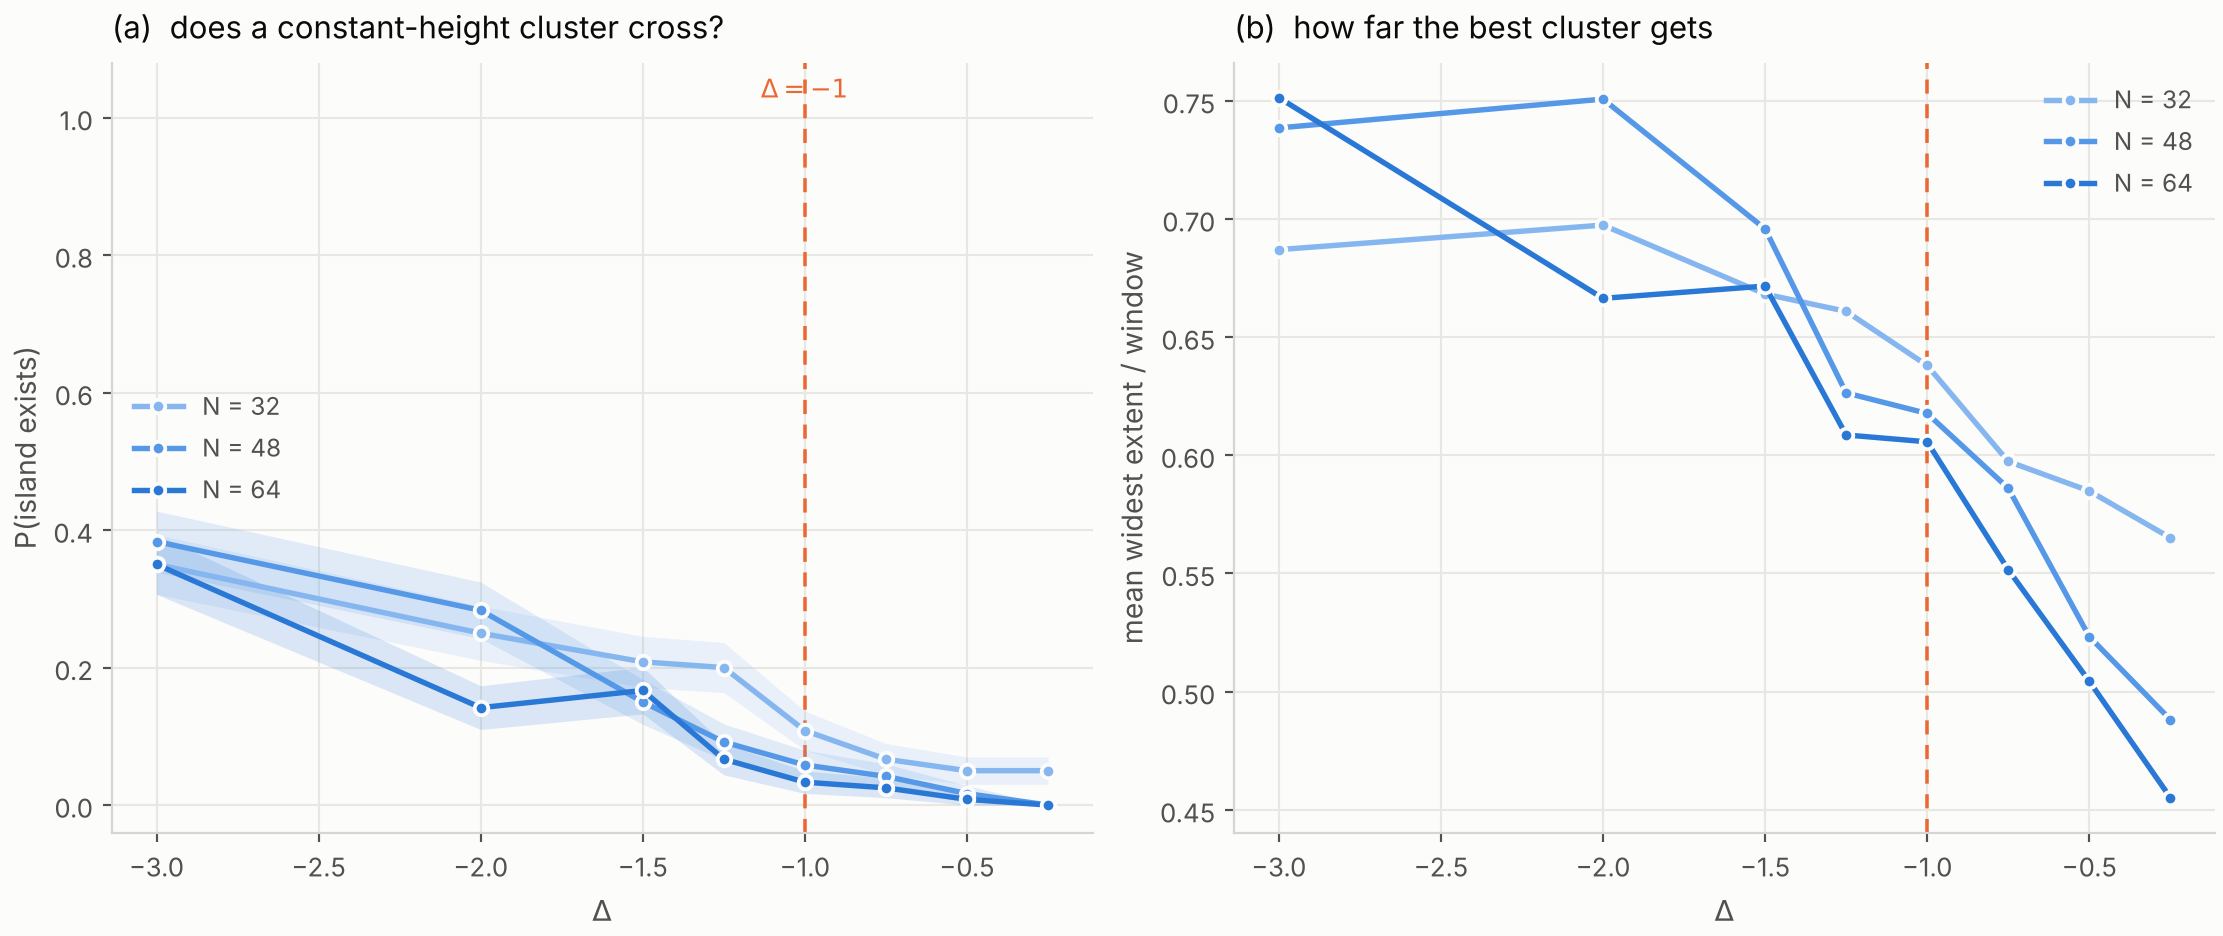
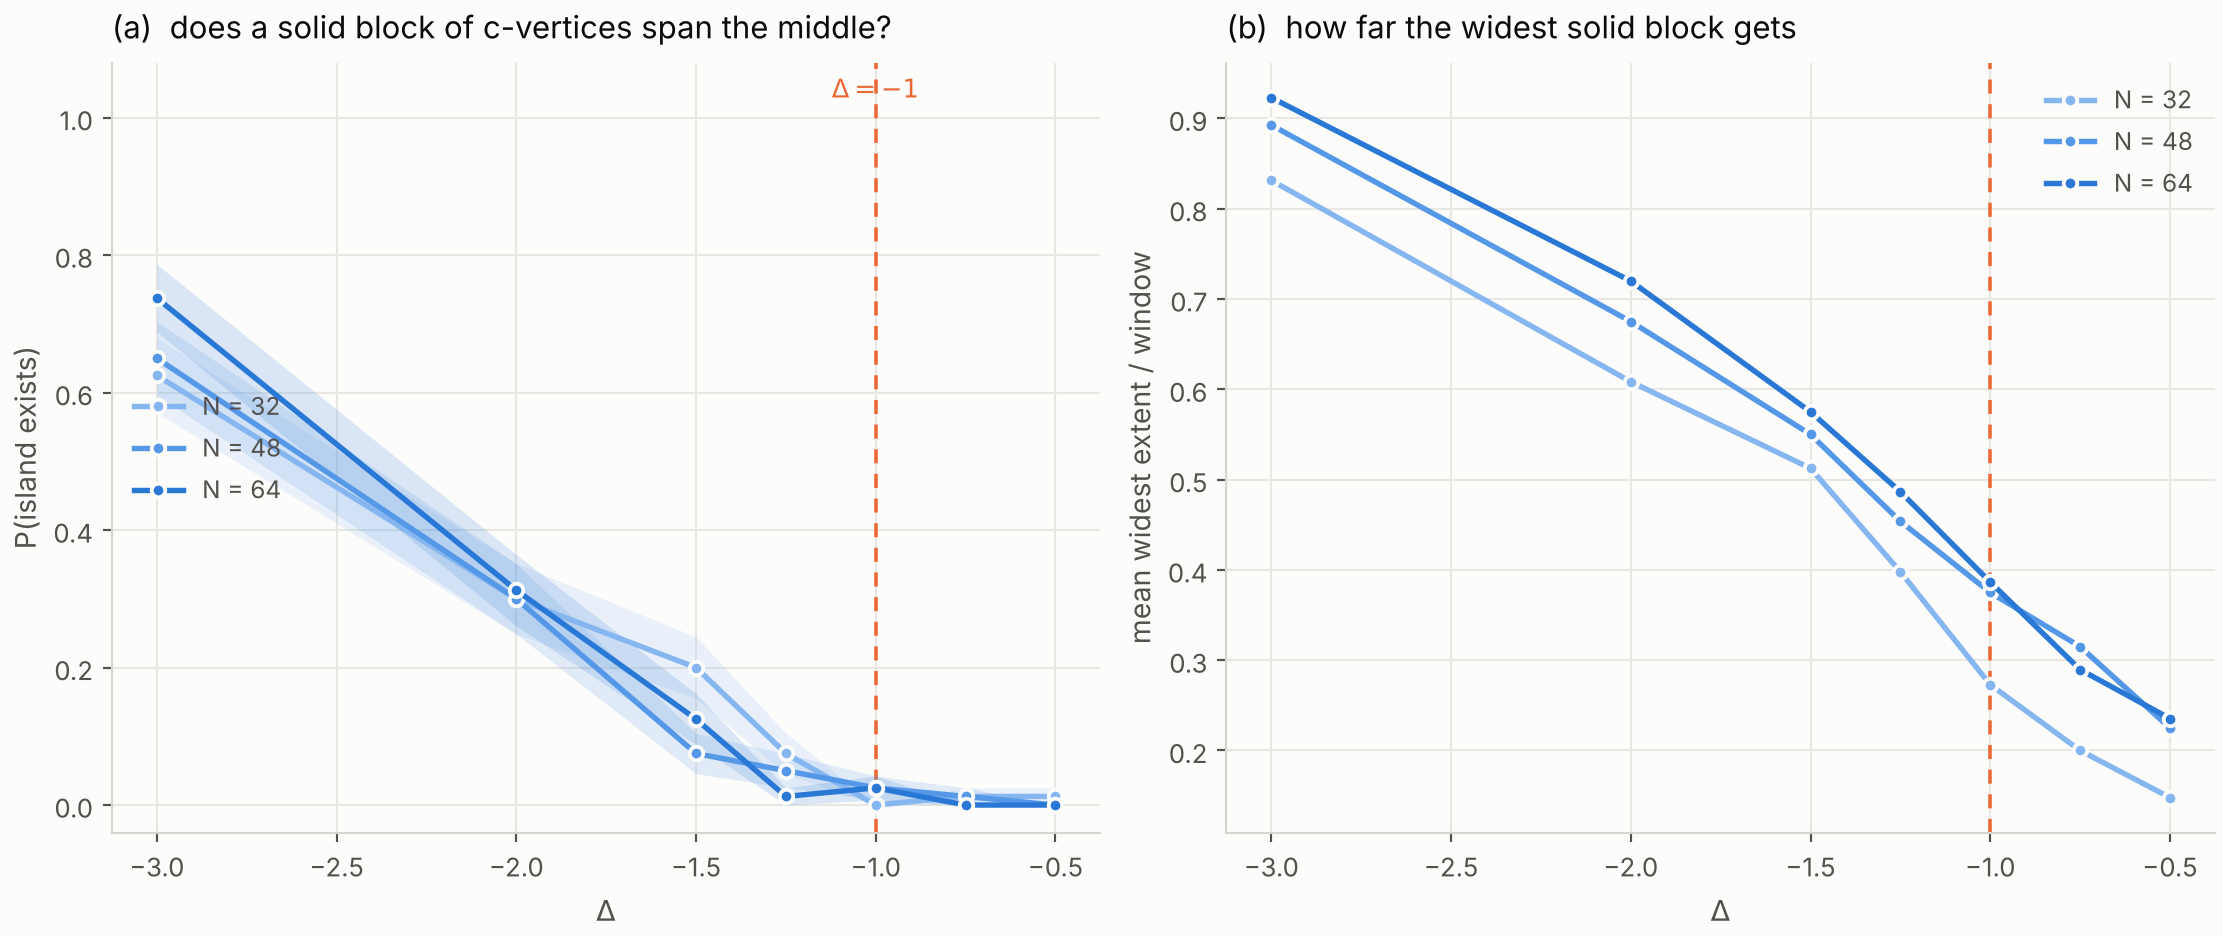
The island predicate: solidity, not flatness, and a window the island can fill
Gorin's N=200, Delta=-3 picture arrived and changes the definition. The island
is a near-SOLID block of c-vertices surrounded by a SPECKLED c region, both
inside the arctic curve. The radial profile agrees: at n=96 the c-density is
0.89-0.93 for r/R <= 0.17 and 0.58 at the edge when Delta=-3, while at
Delta=-0.5 the centre reaches only 0.57-0.65 against an edge value of 0.44.

Two corrections to the previous commit follow.

FIRST, the right object is solidity, not flatness. Call a c-face solid when
all eight of its neighbours are c-faces (one binary erosion). The island
exists iff the solid c-faces span the central window. The previous
level-face predicate -- four corners sharing the parity-corrected height --
separates the phases far less cleanly: at n=64 it still fires with
probability 0.20 at Delta=-0.5, where there is no island at all.

SECOND, the window was too big. The solid core is about 0.25N across, and
the predicate demanded a span of N/2, asking the island to be twice the size
it ever reaches. That alone held P below 0.4 at Delta=-3, where the island is
unmistakable, and was the reason the previous commit could not get P to rise.
The window is now N/5.

With both fixed, at 80 exact samples per point:

  Delta     N=32    N=48    N=64
  -0.50    0.013   0.000   0.000
  -0.75    0.013   0.013   0.000
  -1.00    0.000   0.025   0.025
  -1.25    0.075   0.050   0.013
  -1.50    0.200   0.075   0.125
  -2.00    0.300   0.300   0.312
  -3.00    0.625   0.650   0.738
[…]

diff --git a/static/index.html b/static/index.html
@@ -289,16 +289,16 @@
         </p>
         <p class="note">
           <strong>Does the island exist?</strong> A yes/no test on a single
-          configuration: a face is <em>level</em> when its four corners share
-          the parity-corrected height H&nbsp;&minus;&nbsp;((i+j)&nbsp;mod&nbsp;2),
-          and the island exists when some connected set of level faces spans
-          the central N/2 window.
+          configuration: call a c-vertex <em>solid</em> when all eight of its
+          neighbours are c-vertices, and say the island exists when the solid
+          c-vertices span the central N/5 window.
           <a href="figures/island-exists.png" target="_blank">P(island) against
-          &Delta;</a>, for N&nbsp;=&nbsp;32, 48, 64. It goes to zero for
-          &Delta;&nbsp;&ge;&nbsp;&minus;1.25, monotonically in N; the curves
-          cross near &Delta;&nbsp;&asymp;&nbsp;&minus;1.5, which is the
-          finite-size signature of a transition. Whether that crossing drifts
-          to &minus;1 needs larger N than these.
+          &Delta;</a>, for N&nbsp;=&nbsp;32, 48, 64. It is essentially zero for
+          &Delta;&nbsp;&ge;&nbsp;&minus;1 at every size (at most 0.025) and
+          climbs below, reaching 0.74 at &Delta;&nbsp;=&nbsp;&minus;3 and
+          rising with N. Solidity is what matters: the largest c-region is
+          macroscopic on both sides of &minus;1, so a test on its size alone
+          answers yes everywhere.
         </p>
       </div>
     </main>

diff --git a/experiments/island_exists.py b/experiments/island_exists.py
@@ -38,23 +38,45 @@ so the right variable is the parity-corrected height
 which is genuinely constant there. At Delta = -0.5 the central region is
 c-rich but G still fluctuates across it.
 
-THE PREDICATE. Fix a level L and call a FACE level-L when all four of its
-corners have G = L. Take the level-L faces with 8-connectivity. The island
-exists iff some component, for some L, CROSSES the central window -- spans it
-from the left edge to the right. Crossing is the natural threshold-free yes/no
-here: it needs no tuned area cutoff, and crossing probabilities are the
-observables that actually develop sharp transitions in N. The central window
-of side N/2 keeps the frozen corners of DWBC out, since those would otherwise
-supply their own enormous constant-G regions.
+WHAT THE PICTURE ACTUALLY SHOWS. Gorin's N=200, Delta=-3 simulation shows the
+island as a near-SOLID block of c-vertices in the middle, surrounded by a
+speckled c region, both inside the arctic curve. The radial profile confirms
+it: at n=96, Delta=-3 the c-density is 0.89-0.93 for r/R <= 0.17 and 0.58 at
+the edge, whereas at Delta=-0.5 the centre reaches only 0.57-0.65 against an
+edge value of 0.44. So the island is where the c region is SOLID, not merely
+where it is large -- and the solid core is only about 0.25N across.
 
-Faces, not lattice points. Running this on the POINT set {G = L} gives
-P = 1 at every Delta measured, because an 8-connected set of points can be a
-one-cell-wide filament and a filament always crosses something. Requiring a
-whole face to be level forces the crossing object to have width, which is what
-"the height is constant on a region" was supposed to mean. This is the third
-definition tried here and the first that separates the two phases; the two
-discarded ones are recorded above and in experiments/island.py so the same
-ground is not covered again.
+THE PREDICATE. Call a c-face SOLID when all eight of its neighbours are also
+c-faces (one step of binary erosion). The island exists iff the solid c-faces
+contain a connected component spanning the central window, taken with
+8-connectivity. The window is N/5 by default, because the core is about a
+quarter of N: demanding a span of N/2, as an earlier version did, asks the
+island to be twice the size it ever reaches, and that alone held P below 0.4
+at Delta=-3 where the island is unmistakable.
+
+Measured at n=64 with 40 samples per point, this gives P = 0.00 at
+Delta = -0.5, -0.75 and -1.0, then 0.03, 0.07, 0.30, 0.68 at -1.25, -1.5,
+-2.0 and -3.0: zero above the transition and rising below it, with the onset
+at Delta = -1.
+
+DEFINITIONS THAT FAIL, recorded so the ground is not covered twice:
+
+  - SIZE of the c region. The largest 8-connected component of c-faces is
+    macroscopic on both sides of Delta = -1 -- area fraction 0.23 at
+    Delta = -0.5 and 0.35 at Delta = -3, neither decaying in n over
+    n = 16..48. Not a percolation artifact either: the c-density at
+    Delta = -0.5 is 0.31, below the 8-connected site threshold of about
+    0.407. A size-based predicate says yes everywhere.
+
+  - CROSSING ON LATTICE POINTS of a level set of the height. Trivially true,
+    P = 1 at every Delta, because an 8-connected set of points can be one
+    cell wide and a filament always crosses.
+
+  - CROSSING BY LEVEL FACES, where a face is level when its four corners
+    share the parity-corrected height G = H - ((i+j) mod 2). This separates
+    the phases but much less cleanly than solidity: at n=64 it still fires
+    with probability 0.20 at Delta = -0.5, where there is no island. Keeping
+    the height flat is a weaker signal than keeping the c region solid.
 
 A note on defects. An earlier attempt required strict flatness of whole faces
 and measured the largest such component; it decayed with n at Delta = -3 as
@@ -83,43 +105,40 @@ def corrected_height(H, n):
     return H - ((ii + jj) & 1)
 
 
-def island_exists(H, n, frac=0.5):
-    """True iff a level FACE cluster crosses the central window left-to-right.
+def solid_c_faces(H, n):
+    """c-faces all of whose eight neighbours are c-faces."""
+    from experiments.island import c_face_mask
+    cm = c_face_mask(np.asarray(H, dtype=np.int64), n)
+    return ndimage.binary_erosion(cm, structure=np.ones((3, 3)),
+                                  border_value=0)
 
-    Returns (exists, level, width_fraction) where width_fraction is the widest
-    horizontal extent achieved by any level cluster, as a fraction of the
+
+def island_exists(H, n, frac=0.2):
+    """True iff a solid-c cluster spans the central window left-to-right.
+
+    Returns (exists, None, width_fraction) where width_fraction is the widest
+    horizontal extent achieved by any solid-c cluster, as a fraction of the
     window -- a continuous companion to the yes/no answer, which shows HOW a
-    marginal case fails rather than only that it does.
+    marginal case fails rather than only that it does. The middle slot is kept
+    for call compatibility; solidity carries no level label.
     """
-    G = corrected_height(H, n)
-    m = G.shape[0]
+    solid = solid_c_faces(H, n)
+    m = solid.shape[0]
     lo = int(round(m * (1 - frac) / 2))
     hi = int(round(m * (1 + frac) / 2))
-    W = G[lo:hi, lo:hi]
-    if W.shape[0] < 2:
+    W = solid[lo:hi, lo:hi]
+    if W.size == 0 or W.shape[1] == 0:
         return False, None, 0.0
+    w = W.shape[1]
 
-    # A face is level iff all four of its corners agree.
-    level_face = ((W[:-1, :-1] == W[:-1, 1:]) & (W[:-1, :-1] == W[1:, :-1])
-                  & (W[:-1, :-1] == W[1:, 1:]))
-    lev = W[:-1, :-1]
-    w = level_face.shape[1]
-
-    best_frac, best_level, found = 0.0, None, False
-    structure = np.ones((3, 3))
-    for L in np.unique(lev[level_face]):
-        lab, nl = ndimage.label(level_face & (lev == L), structure=structure)
-        if nl == 0:
-            continue
-        cols = np.indices(lab.shape)[1]
-        for c in range(1, nl + 1):
-            sel = cols[lab == c]
-            ext = float(sel.max() - sel.min() + 1) / w
-            if ext > best_frac:
-                best_frac, best_level = ext, int(L)
-            if ext >= 1.0:
-                found = True
-    return found, best_level, best_frac
+    lab, nl = ndimage.label(W, structure=np.ones((3, 3)))
+    best = 0.0
+    for c in range(1, nl + 1):
+        cols = np.nonzero((lab == c).any(axis=0))[0]
+        if cols.size:
+            ext = float(cols.max() - cols.min() + 1) / w
+            best = max(best, ext)
+    return best >= 1.0, None, best
 
 
 def main():
@@ -128,7 +147,7 @@ def main():
     ap.add_argument("--deltas", type=float, nargs="+",
                     default=[-0.25, -0.5, -0.75, -1.0, -1.25, -1.5, -2.0, -3.0])
     ap.add_argument("--reps", type=int, default=40)
-    ap.add_argument("--frac", type=float, default=0.5,
+    ap.add_argument("--frac", type=float, default=0.2,
                     help="side of the central window, as a fraction of N")
     ap.add_argument("--out", default="island_exists.csv")
     args = ap.parse_args()

diff --git a/tests/test_sampler.py b/tests/test_sampler.py
@@ -3295,3 +3295,78 @@ def test_every_server_sample_cancels_the_pending_lattice_rebuild():
             assert "cancelPendingRebuild()" in window, (
                 f"the handler at {pat!r} does not cancel the pending rebuild")
     assert found >= 4, found
+
+
+def test_island_predicate_is_off_above_the_transition_and_on_below():
+    """Pins the solid-c crossing predicate at a size that runs in seconds.
+
+    The point of the definition is that it says NO where there is no island.
+    Measured at n=48 with 80 samples it gives 0.000 at Delta=-0.5 and 0.650
+    at Delta=-3; this asserts the separation with wide margins so it pins the
+    behaviour rather than the third decimal.
+
+    A regression here most likely means the erosion step or the window
+    fraction moved. Both matter: without erosion the predicate fires on the
+    speckled c region that exists at every Delta, and with the window at N/2
+    instead of N/5 it asks the island to be twice the size it ever reaches.
+    """
+    import numpy as np
+
+    from experiments.island_exists import island_exists
+    from experiments.mixing import weights_for_delta
+    from sixvertex.cftp_exact import cftp_sample
+
+    def rate(delta, n=32, reps=24):
+        w = weights_for_delta(delta)
+        hits = 0
+        for s in range(reps):
+            H, _ = cftp_sample(n, w, master_seed=31_000 + 97 * s)
+            hits += int(island_exists(H, n)[0])
+        return hits / reps
+
+    hot, cold = rate(-0.5), rate(-3.0)
+    assert hot <= 0.10, f"predicate fires at Delta=-0.5 ({hot:.3f})"
+    assert cold >= 0.40, f"predicate too quiet at Delta=-3 ({cold:.3f})"
+    assert cold - hot > 0.3, (hot, cold)
+
+
+def test_island_predicate_needs_both_erosion_and_a_small_window():
+    """The two ingredients each do work; neither is decoration.
+
+    Without erosion the predicate fires at Delta=-0.5, where the c region is
+    speckled rather than solid and there is no island. This asserts that,
+    so that dropping the erosion step cannot pass silently.
+    """
+    import numpy as np
+    from scipy import ndimage
+
+    from experiments.island import c_face_mask
+    from experiments.island_exists import island_exists
+    from experiments.mixing import weights_for_delta
+    from sixvertex.cftp_exact import cftp_sample
+
+    w = weights_for_delta(-0.5)
+    n, reps = 32, 24
+    with_erosion, without = 0, 0
+    for s in range(reps):
+        H, _ = cftp_sample(n, w, master_seed=31_000 + 97 * s)
+        with_erosion += int(island_exists(H, n)[0])
+
+        # same test, skipping the erosion step
+        cm = c_face_mask(np.asarray(H, np.int64), n)
+        lo = int(round(n * 0.4))
+        hi = int(round(n * 0.6))
+        W = cm[lo:hi, lo:hi]
+        lab, nl = ndimage.label(W, structure=np.ones((3, 3)))
+        span = 0
+        for c in range(1, nl + 1):
+            cols = np.nonzero((lab == c).any(axis=0))[0]
+            if cols.size:
+                span = max(span, cols.max() - cols.min() + 1)
+        without += int(span >= W.shape[1])
+
+    assert with_erosion <= 0.10 * reps, with_erosion
+    assert without > with_erosion, (
+        f"without erosion {without}/{reps}, with {with_erosion}/{reps}: "
+        f"the erosion step is doing nothing, so the predicate is not "
+        f"measuring solidity")

diff --git a/experiments/plot_island_exists.py b/experiments/plot_island_exists.py
@@ -4,7 +4,8 @@
     python3 experiments/plot_island_exists.py island_exists.csv out.png
 
 The predicate is the crossing criterion in experiments/island_exists.py: a
-constant-parity-corrected-height cluster spanning the central window. Panel
+cluster of SOLID c-faces -- c-faces all of whose eight neighbours are also
+c-faces -- spanning the central N/5 window. Panel
 (a) is the probability itself with binomial intervals; panel (b) is the mean
 widest extent, a continuous companion that shows HOW the marginal cases fail
 rather than only that they do.
@@ -75,13 +76,13 @@ def main(src, dst):
     axA.set_ylim(-0.04, 1.08)
     axA.set_xlabel(r"$\Delta$", color=INK2, fontsize=10.5)
     axA.set_ylabel("P(island exists)", color=INK2, fontsize=10.5)
-    axA.set_title("(a)  does a constant-height cluster cross?",
+    axA.set_title("(a)  does a solid block of c-vertices span the middle?",
                   color=INK, fontsize=11.5, loc="left", pad=9)
     axA.legend(frameon=False, fontsize=9, labelcolor=INK2, loc="center left")
 
     axB.set_xlabel(r"$\Delta$", color=INK2, fontsize=10.5)
     axB.set_ylabel("mean widest extent / window", color=INK2, fontsize=10.5)
-    axB.set_title("(b)  how far the best cluster gets",
+    axB.set_title("(b)  how far the widest solid block gets",
                   color=INK, fontsize=11.5, loc="left", pad=9)
     axB.legend(frameon=False, fontsize=9, labelcolor=INK2, loc="upper right")
 
